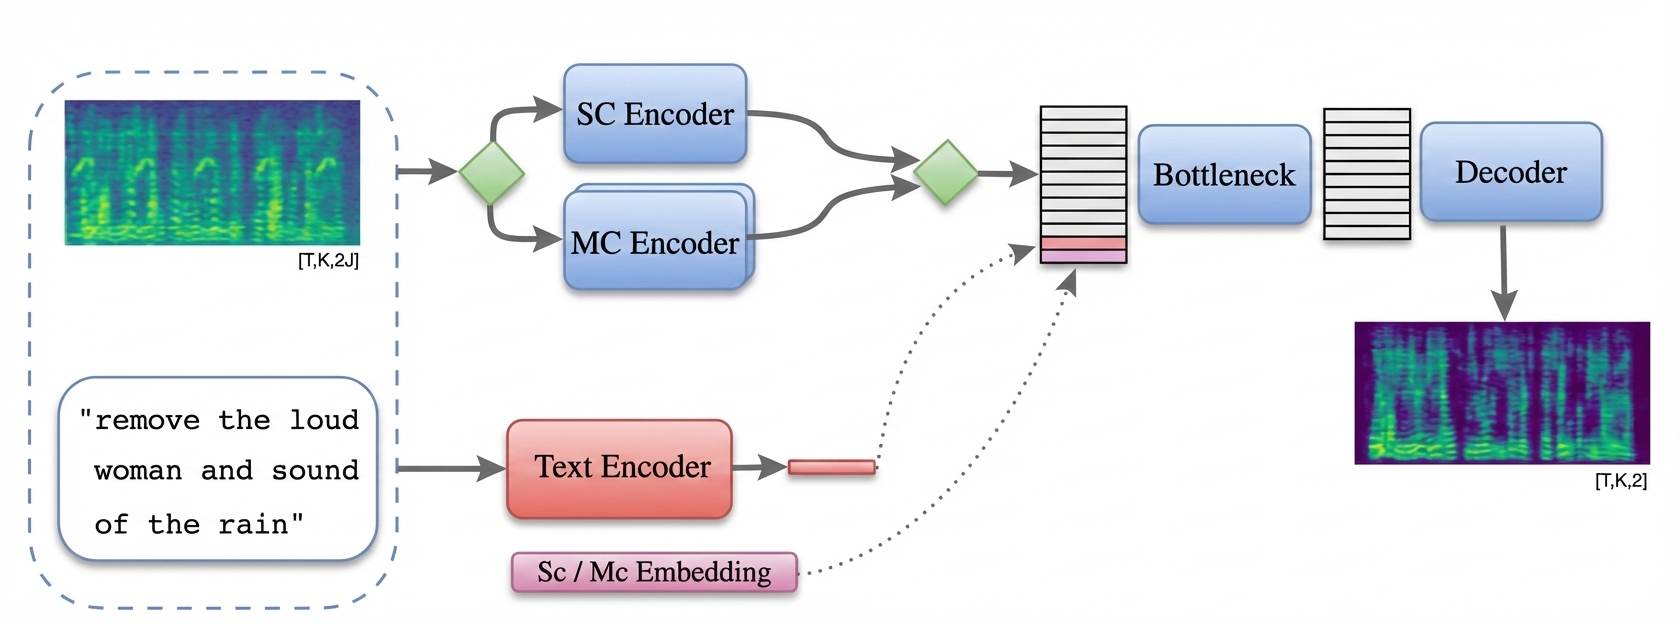
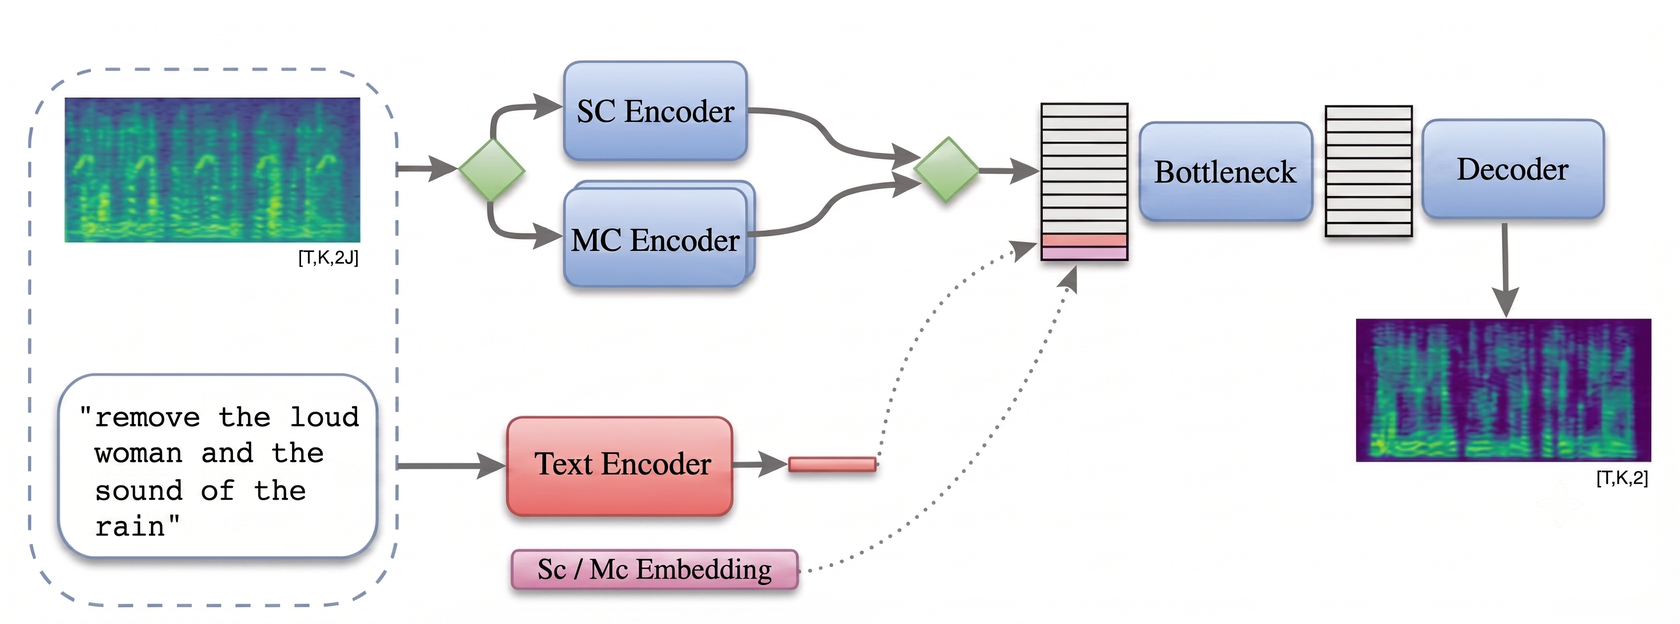
Update architecture figure

diff --git a/index.html b/index.html
@@ -106,7 +106,7 @@
 </div>
 <div class="figwrap">
   <img src="assets/tg_model.png" alt="Textraction model architecture">
-  <div class="figcap">Model architecture &mdash; RI-STFT U-Net with a text-conditioned (FiLM) transformer bottleneck.</div>
+  <div class="figcap">Model architecture Model architecture &mdash; RI-STFT U-Net with a text-conditioned (FiLM) transformer bottleneck.mdash; dedicated SC / MC encoders, a text-conditioned transformer bottleneck, and a U-Net decoder.</div>
 </div>
 
 <main>
